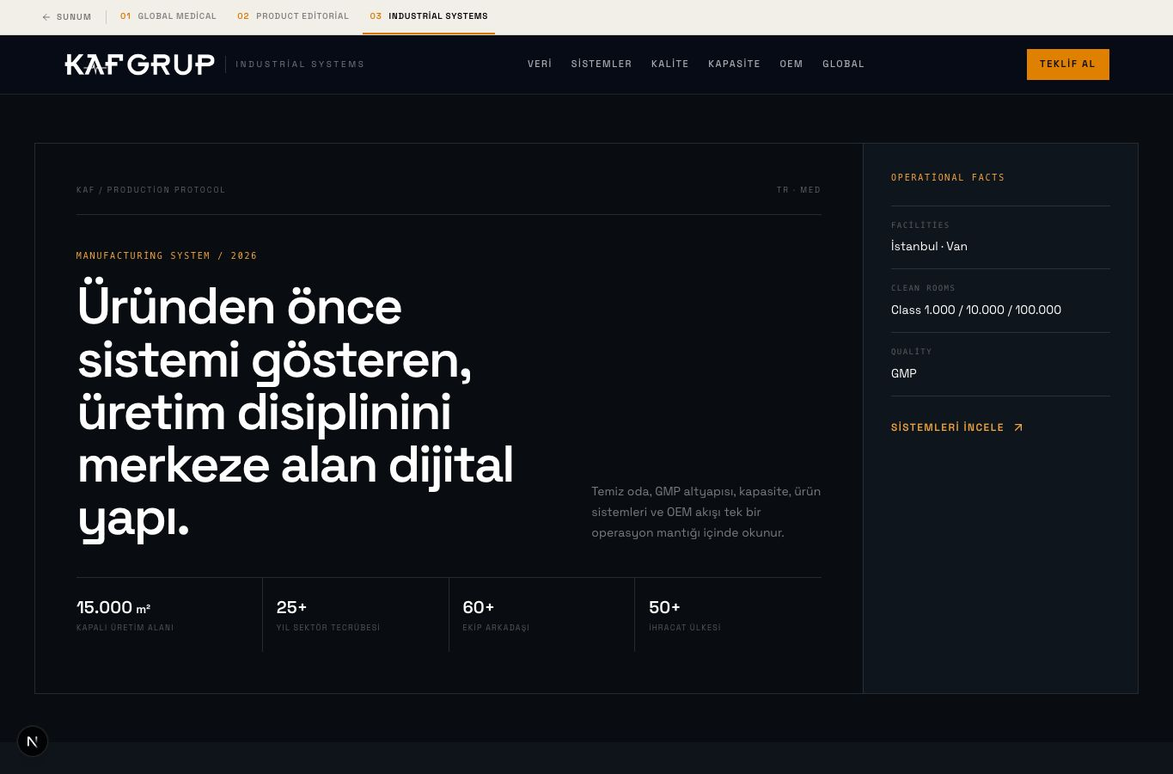
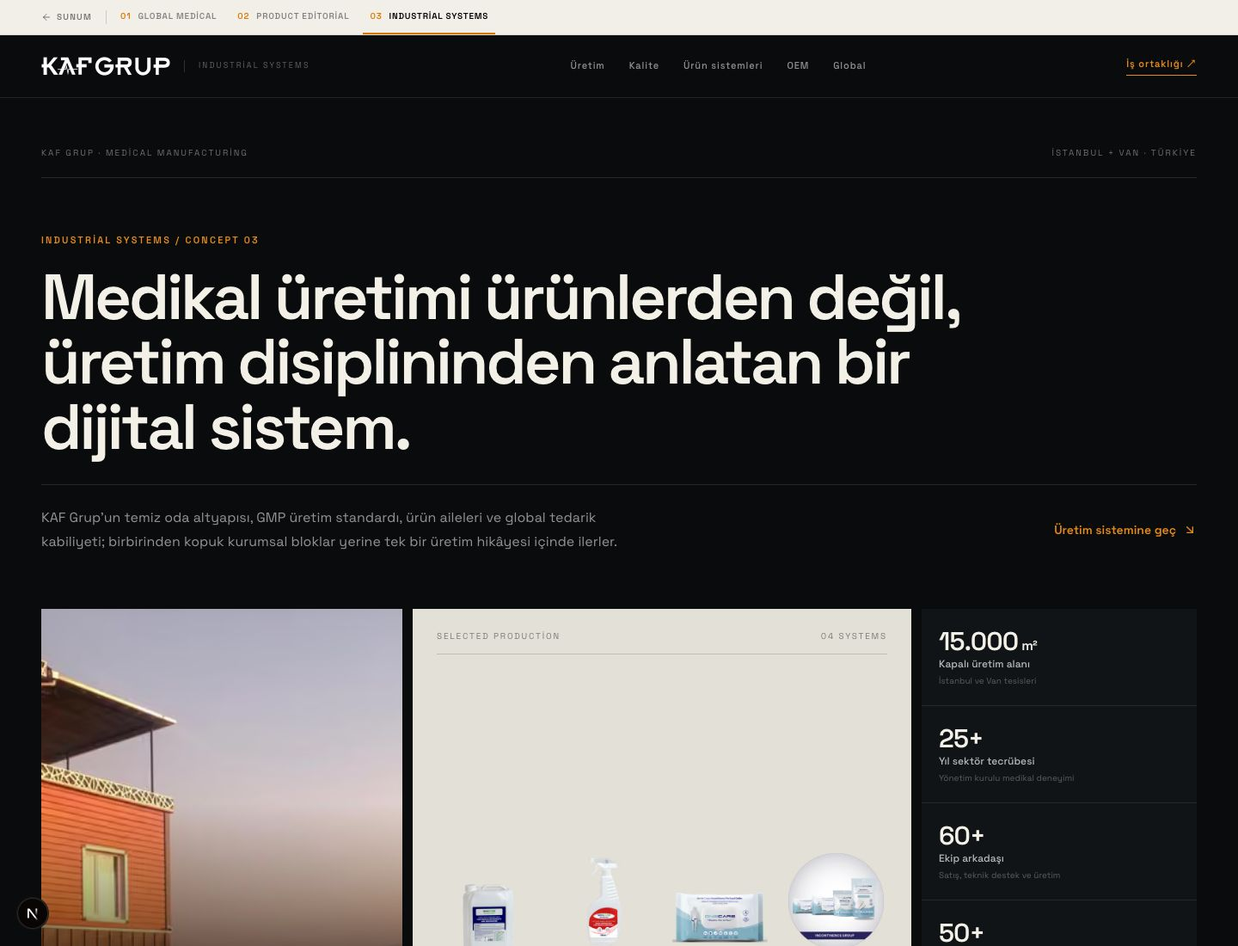
Refine industrial systems concept

diff --git a/src/components/taslak3/HomeSections.tsx b/src/components/taslak3/HomeSections.tsx
@@ -1,86 +1,181 @@
 import Image from "next/image";
-import { ArrowUpRight } from "lucide-react";
+import { ArrowDownRight, ArrowUpRight } from "lucide-react";
 import { company, metrics } from "@/data/company";
 import { products } from "@/data/products";
-import { oemSteps } from "@/data/content";
+import { exportMarkets, oemContent, oemSteps } from "@/data/content";
 
 const systems = [
-  { code: "SYS-01", title: "Instrument care", desc: "Tıbbi cihaz ve endoskop süreçleri", image: products[2].image },
-  { code: "SYS-02", title: "Surface control", desc: "Yüzey ve çevresel dezenfeksiyon", image: products[7].image },
-  { code: "SYS-03", title: "Patient care", desc: "Bariyer ve antibakteriyel bakım", image: products[12].image },
-  { code: "SYS-04", title: "Medical gels", desc: "Tanı ve uygulama destek ürünleri", image: products[0].image },
+  { code: "01", title: "Instrument care", desc: "Tıbbi cihaz ve endoskop dezenfeksiyonu", image: products[2].image },
+  { code: "02", title: "Surface control", desc: "Yüzey ve çevresel dezenfeksiyon", image: products[7].image },
+  { code: "03", title: "Patient care", desc: "Bariyer ve antibakteriyel bakım", image: products[12].image },
+  { code: "04", title: "Medical gels", desc: "Tanı ve uygulama destek ürünleri", image: products[0].image },
 ];
+
+const productionFlow = [
+  ["01", "Geliştirme", "Ürün ihtiyacı, formülasyon ve kullanım senaryosu"],
+  ["02", "Kontrollü üretim", "GMP altyapısı ve temiz oda standartları"],
+  ["03", "Kalite kontrol", "Üretim sürecinin kontrollü ve tekrarlanabilir ilerlemesi"],
+  ["04", "Global tedarik", "50+ ülkeye uzanan dağıtım ve iş ortaklığı ağı"],
+] as const;
 
 export function HomeSections() {
   return (
     <>
-      <section id="veri" className="bg-[#090d12] text-white">
-        <div className="mx-auto max-w-[1380px] px-5 py-10 sm:px-8 lg:px-10 lg:py-14">
-          <div className="grid overflow-hidden border border-white/12 lg:grid-cols-[1fr_320px]">
-            <div className="p-5 sm:p-8 lg:p-12">
-              <div className="flex items-center justify-between border-b border-white/12 pb-5 text-[9px] tracking-[0.22em] text-white/35 uppercase"><span>KAF / production protocol</span><span>TR · MED</span></div>
-              <div className="grid gap-8 py-10 lg:grid-cols-12 lg:items-end">
-                <div className="lg:col-span-8"><p className="font-mono text-[10px] tracking-[0.18em] text-[#f0a33e] uppercase">Manufacturing system / 2026</p><h1 className="mt-5 max-w-4xl text-4xl font-semibold leading-[1.02] tracking-[-0.04em] sm:text-5xl lg:text-6xl">Üründen önce sistemi gösteren, üretim disiplinini merkeze alan dijital yapı.</h1></div>
-                <p className="text-sm leading-6 text-white/45 lg:col-span-4">Temiz oda, GMP altyapısı, kapasite, ürün sistemleri ve OEM akışı tek bir operasyon mantığı içinde okunur.</p>
+      <section id="veri" className="overflow-hidden bg-[#0a0b0c] text-[#f3f0e8]">
+        <div className="mx-auto max-w-[1440px] px-5 pb-14 pt-10 sm:px-8 lg:px-12 lg:pb-20 lg:pt-14">
+          <div className="flex flex-wrap items-center justify-between gap-4 border-b border-white/12 pb-5 text-[10px] tracking-[0.2em] text-white/40 uppercase">
+            <span>KAF Grup · Medical Manufacturing</span>
+            <span>İstanbul + Van · Türkiye</span>
+          </div>
+
+          <div className="py-10 sm:py-14 lg:py-16">
+            <p className="text-[11px] font-semibold tracking-[0.2em] text-[#e58a1b] uppercase">Industrial systems / concept 03</p>
+            <h1 className="mt-5 max-w-[1080px] text-4xl font-semibold leading-[1.02] tracking-[-0.045em] sm:text-5xl lg:text-[4.65rem]">
+              Medikal üretimi ürünlerden değil, üretim disiplininden anlatan bir dijital sistem.
+            </h1>
+            <div className="mt-7 grid gap-6 border-t border-white/12 pt-6 md:grid-cols-12">
+              <p className="max-w-2xl text-base leading-7 text-white/55 md:col-span-7">
+                KAF Grup’un temiz oda altyapısı, GMP üretim standardı, ürün aileleri ve global tedarik kabiliyeti; birbirinden kopuk kurumsal bloklar yerine tek bir üretim hikâyesi içinde ilerler.
+              </p>
+              <a href="#sistemler" className="inline-flex items-center gap-2 text-sm font-semibold text-[#e58a1b] md:col-span-5 md:justify-self-end">
+                Üretim sistemine geç <ArrowDownRight className="size-4" />
+              </a>
+            </div>
+          </div>
+
+          <div className="grid gap-3 lg:grid-cols-[1.05fr_1.45fr_.8fr]">
+            <figure className="relative min-h-[250px] overflow-hidden bg-[#16191c] sm:min-h-[320px] lg:min-h-[390px]">
+              <Image src="/images/factory/van-fabrika.jpg" alt="KAF Grup Van üretim tesisi" fill priority sizes="(max-width:1024px) 100vw, 32vw" className="object-cover" />
+              <div className="absolute inset-0 bg-gradient-to-t from-black/65 via-transparent to-transparent" />
+              <figcaption className="absolute inset-x-0 bottom-0 flex items-end justify-between gap-4 p-5 text-[10px] tracking-[0.16em] text-white/65 uppercase">
+                <span>Gerçek üretim tesisi</span><span>Van · YYÜ Teknokent</span>
+              </figcaption>
+            </figure>
+
+            <div className="relative min-h-[300px] overflow-hidden bg-[#e3e0d8] text-[#111315] sm:min-h-[390px]">
+              <div className="absolute inset-x-5 top-5 flex items-center justify-between border-b border-black/15 pb-3 text-[10px] tracking-[0.18em] text-black/45 uppercase sm:inset-x-7 sm:top-6">
+                <span>Selected production</span><span>04 systems</span>
               </div>
-              <div className="grid grid-cols-2 border-t border-white/12 md:grid-cols-4">
-                {metrics.map((m) => <div key={m.id} className="border-b border-white/12 py-5 pr-4 md:border-b-0 md:border-r md:px-4 first:md:pl-0 last:md:border-r-0"><p className="text-xl font-semibold">{m.value}{m.unit ? <span className="ml-1 text-sm">{m.unit}</span> : null}</p><p className="mt-1 text-[9px] tracking-[0.14em] text-white/30 uppercase">{m.label}</p></div>)}
+              <div className="absolute inset-x-2 bottom-5 top-14 grid grid-cols-4 items-end gap-0 sm:inset-x-5 sm:bottom-6 sm:top-16">
+                {systems.map((item, index) => (
+                  <div key={item.code} className={`relative h-[78%] ${index % 2 ? "translate-y-[-7%]" : ""}`}>
+                    <Image src={item.image} alt={item.title} fill sizes="(max-width:1024px) 24vw, 14vw" className="object-contain object-bottom p-1 sm:p-3" />
+                  </div>
+                ))}
               </div>
             </div>
-            <aside className="border-t border-white/12 bg-[#0f151c] p-5 sm:p-8 lg:border-l lg:border-t-0">
-              <p className="font-mono text-[10px] tracking-[0.18em] text-[#f0a33e] uppercase">Operational facts</p>
-              <dl className="mt-6 divide-y divide-white/12 border-y border-white/12 text-sm">
-                <div className="py-4"><dt className="font-mono text-[9px] tracking-[0.16em] text-white/30 uppercase">Facilities</dt><dd className="mt-2">İstanbul · Van</dd></div>
-                <div className="py-4"><dt className="font-mono text-[9px] tracking-[0.16em] text-white/30 uppercase">Clean rooms</dt><dd className="mt-2">Class 1.000 / 10.000 / 100.000</dd></div>
-                <div className="py-4"><dt className="font-mono text-[9px] tracking-[0.16em] text-white/30 uppercase">Quality</dt><dd className="mt-2">GMP</dd></div>
-              </dl>
-              <a href="#sistemler" className="mt-7 inline-flex items-center gap-2 text-xs font-semibold tracking-[0.12em] text-[#f0a33e] uppercase">Sistemleri incele <ArrowUpRight className="size-4" /></a>
-            </aside>
+
+            <div className="grid grid-cols-2 gap-px bg-white/12 lg:grid-cols-1">
+              {metrics.map((m) => (
+                <div key={m.id} className="flex min-h-[118px] flex-col justify-between bg-[#111417] p-5 lg:min-h-0">
+                  <p className="text-2xl font-semibold tracking-[-0.03em] sm:text-3xl">{m.value}{m.unit ? <span className="ml-1 text-base">{m.unit}</span> : null}</p>
+                  <div><p className="text-xs font-medium text-white/70">{m.label}</p><p className="mt-1 text-[10px] leading-4 text-white/30">{m.detail}</p></div>
+                </div>
+              ))}
+            </div>
           </div>
         </div>
       </section>
 
-      <section id="sistemler" className="bg-[#0e141a] text-white">
-        <div className="mx-auto max-w-[1380px] px-5 py-16 sm:px-8 lg:px-10 lg:py-20">
-          <div className="mb-8 grid gap-5 lg:grid-cols-12"><div className="lg:col-span-3"><p className="font-mono text-[10px] tracking-[0.18em] text-[#f0a33e] uppercase">System portfolio</p></div><div className="lg:col-span-7"><h2 className="text-3xl font-semibold tracking-[-0.03em] sm:text-4xl">Ürün portföyü, klinik iş akışları üzerinden okunur.</h2></div></div>
-          <div className="border-y border-white/12">
-            {systems.map((item) => (
-              <article key={item.code} className="grid gap-4 border-b border-white/12 py-5 last:border-b-0 sm:grid-cols-[72px_1fr_140px] sm:items-center">
-                <span className="font-mono text-[10px] text-[#f0a33e]">{item.code}</span>
-                <div><h3 className="text-xl font-semibold">{item.title}</h3><p className="mt-1 text-sm text-white/40">{item.desc}</p></div>
-                <div className="relative h-24 bg-[#151d25]"><Image src={item.image} alt="" fill sizes="140px" className="object-contain p-3 grayscale" /></div>
-              </article>
+      <section id="sistemler" className="bg-[#111315] text-[#f3f0e8]">
+        <div className="mx-auto max-w-[1440px] px-5 py-16 sm:px-8 lg:px-12 lg:py-24">
+          <div className="grid gap-8 lg:grid-cols-12">
+            <div className="lg:col-span-4">
+              <p className="text-[10px] tracking-[0.2em] text-[#e58a1b] uppercase">01 · Production flow</p>
+              <h2 className="mt-4 max-w-md text-3xl font-semibold tracking-[-0.035em] sm:text-4xl">Ürünün arkasındaki sistem görünür hale geliyor.</h2>
+            </div>
+            <div className="lg:col-span-8">
+              <div className="border-t border-white/15">
+                {productionFlow.map(([n, t, d]) => (
+                  <article key={n} className="grid gap-3 border-b border-white/15 py-6 sm:grid-cols-[54px_180px_1fr] sm:items-baseline">
+                    <span className="text-xs text-[#e58a1b]">{n}</span>
+                    <h3 className="text-lg font-semibold">{t}</h3>
+                    <p className="max-w-xl text-sm leading-6 text-white/45">{d}</p>
+                  </article>
+                ))}
+              </div>
+            </div>
+          </div>
+        </div>
+      </section>
+
+      <section id="kalite" className="bg-[#dedbd3] text-[#121416]">
+        <div className="mx-auto max-w-[1440px] px-5 py-16 sm:px-8 lg:px-12 lg:py-24">
+          <div className="flex flex-col gap-5 border-b border-black/15 pb-8 lg:flex-row lg:items-end lg:justify-between">
+            <div><p className="text-[10px] tracking-[0.2em] text-[#9c5500] uppercase">02 · Quality architecture</p><h2 className="mt-4 max-w-3xl text-4xl font-semibold tracking-[-0.04em] sm:text-5xl">Kalite, ayrı bir bölüm değil; tüm yapının omurgası.</h2></div>
+            <p className="max-w-sm text-sm leading-6 text-black/55">GMP üretim altyapısı ile Class 1.000, 10.000 ve 100.000 temiz oda standartları sade ve ölçülü bir veri diliyle anlatılır.</p>
+          </div>
+          <div className="grid border-b border-black/15 md:grid-cols-3">
+            {[ ["GMP", "Belgeli üretim altyapısı"], ["1.000 / 10.000 / 100.000", "Temiz oda sınıfları"], ["15.000 m²", "İstanbul + Van toplam kapalı alan"] ].map(([v,l], i) => (
+              <div key={l} className={`py-8 md:px-7 ${i ? "md:border-l md:border-black/15" : ""}`}>
+                <p className="text-3xl font-semibold tracking-[-0.04em] lg:text-4xl">{v}</p><p className="mt-3 text-sm text-black/50">{l}</p>
+              </div>
             ))}
           </div>
         </div>
       </section>
 
-      <section id="kalite" className="bg-[#cfd4d1] text-[#10161b]">
-        <div className="mx-auto grid max-w-[1380px] gap-10 px-5 py-16 sm:px-8 lg:grid-cols-12 lg:px-10 lg:py-20">
-          <div className="lg:col-span-5"><p className="font-mono text-[10px] tracking-[0.18em] text-[#8a4b00] uppercase">Quality architecture</p><h2 className="mt-4 text-4xl font-semibold tracking-[-0.04em]">Kontrol, ürünün son adımı değil; üretim sisteminin parçası.</h2></div>
-          <div className="lg:col-span-7">
-            {[ ["01","GMP","Belgeli üretim altyapısı"], ["02","Clean room","Class 1.000 · 10.000 · 100.000"], ["03","Production discipline","Geliştirme, üretim ve kalite adımlarının kontrollü ilerlemesi"] ].map(([n,t,d]) => <div key={n} className="grid gap-3 border-t border-black/20 py-5 sm:grid-cols-[52px_180px_1fr]"><span className="font-mono text-xs text-[#8a4b00]">{n}</span><strong>{t}</strong><span className="text-sm leading-6 text-black/55">{d}</span></div>)}
+      <section id="kapasite" className="bg-[#0a0b0c] text-[#f3f0e8]">
+        <div className="mx-auto max-w-[1440px] px-5 py-16 sm:px-8 lg:px-12 lg:py-24">
+          <div className="grid gap-10 lg:grid-cols-12 lg:items-start">
+            <div className="lg:col-span-5 lg:sticky lg:top-28">
+              <p className="text-[10px] tracking-[0.2em] text-[#e58a1b] uppercase">03 · Clinical systems</p>
+              <h2 className="mt-4 text-4xl font-semibold tracking-[-0.04em]">Dört ürün sistemi. Tek üretim disiplini.</h2>
+              <p className="mt-5 max-w-md text-sm leading-6 text-white/45">Ürünler kutular içinde tekrar eden kartlar olarak değil; her biri ayrı bir klinik iş akışının parçası olarak sunulur.</p>
+            </div>
+            <div className="lg:col-span-7 lg:col-start-6">
+              {systems.map((item, index) => (
+                <article key={item.code} className="grid min-h-[240px] border-t border-white/15 py-7 sm:grid-cols-[72px_1fr_220px] sm:items-center">
+                  <span className="mb-5 text-xs text-[#e58a1b] sm:mb-0">{item.code}</span>
+                  <div className="pr-5"><h3 className="text-2xl font-semibold tracking-[-0.025em]">{item.title}</h3><p className="mt-2 text-sm text-white/45">{item.desc}</p></div>
+                  <div className={`relative mt-6 h-44 overflow-hidden sm:mt-0 ${index % 2 ? "bg-[#d8d5cd]" : "bg-[#171a1d]"}`}>
+                    <Image src={item.image} alt={item.title} fill sizes="220px" className="object-contain p-5" />
+                  </div>
+                </article>
+              ))}
+            </div>
           </div>
         </div>
       </section>
 
-      <section id="kapasite" className="bg-[#090d12] text-white">
-        <div className="mx-auto grid max-w-[1380px] gap-10 px-5 py-16 sm:px-8 lg:grid-cols-12 lg:px-10 lg:py-20">
-          <div className="lg:col-span-5">
-            <div className="relative aspect-[4/3] max-w-[620px] overflow-hidden border border-white/12 bg-[#111820]"><Image src="/images/factory/van-fabrika.jpg" alt="KAF Grup Van üretim tesisi" fill sizes="(max-width:1024px) 100vw, 42vw" className="object-cover" /></div>
-            <p className="mt-3 font-mono text-[9px] tracking-[0.16em] text-white/30 uppercase">Facility image / Van YYÜ Teknokent</p>
+      <section id="oem" className="bg-[#181b1e] text-white">
+        <div className="mx-auto max-w-[1440px] px-5 py-16 sm:px-8 lg:px-12 lg:py-24">
+          <div className="grid gap-10 lg:grid-cols-12">
+            <div className="lg:col-span-5">
+              <div className="relative aspect-[16/10] overflow-hidden bg-[#22272b]">
+                <Image src={oemContent.image} alt="KAF Grup OEM ve Private Label üretim" fill sizes="(max-width:1024px) 100vw, 40vw" className="object-cover" />
+                <div className="absolute inset-0 bg-black/15" />
+              </div>
+            </div>
+            <div className="lg:col-span-6 lg:col-start-7">
+              <p className="text-[10px] tracking-[0.2em] text-[#e58a1b] uppercase">04 · OEM / Private Label</p>
+              <h2 className="mt-4 text-4xl font-semibold tracking-[-0.04em]">Markaya özel üretim, sistemin doğal devamı.</h2>
+              <p className="mt-5 max-w-xl text-sm leading-6 text-white/45">{oemContent.summary}</p>
+              <ol className="mt-8 border-t border-white/15">
+                {oemSteps.map((step) => (
+                  <li key={step.step} className="grid gap-2 border-b border-white/15 py-5 sm:grid-cols-[48px_160px_1fr]">
+                    <span className="text-xs text-[#e58a1b]">{step.step}</span><strong className="text-sm">{step.title}</strong><span className="text-sm leading-6 text-white/40">{step.description}</span>
+                  </li>
+                ))}
+              </ol>
+            </div>
           </div>
-          <div className="lg:col-span-6 lg:col-start-7"><p className="font-mono text-[10px] tracking-[0.18em] text-[#f0a33e] uppercase">Capacity / facility</p><h2 className="mt-4 text-4xl font-semibold tracking-[-0.04em]">Fabrika görseli dekor değil, operasyon kanıtı.</h2><p className="mt-5 max-w-xl text-base leading-7 text-white/45">KAF Grup’un İstanbul ve Van’daki üretim yapısı, 15.000 m² kapalı alan ve temiz oda altyapısıyla birlikte gösterilir. Görsel yalnızca gerçek tesis bağlamında kullanılır.</p><div className="mt-8 grid grid-cols-2 gap-px bg-white/12">{[["15.000 m²","Kapalı alan"],["2","Üretim lokasyonu"],["60+","Ekip"],["50+","İhracat ülkesi"]].map(([v,l])=><div key={l} className="bg-[#090d12] p-5"><p className="text-2xl font-semibold">{v}</p><p className="mt-1 font-mono text-[9px] tracking-[0.14em] text-white/30 uppercase">{l}</p></div>)}</div></div>
         </div>
       </section>
 
-      <section id="oem" className="bg-[#141b22] text-white">
-        <div className="mx-auto max-w-[1380px] px-5 py-16 sm:px-8 lg:px-10 lg:py-20">
-          <div className="grid gap-8 lg:grid-cols-12"><div className="lg:col-span-4"><p className="font-mono text-[10px] tracking-[0.18em] text-[#f0a33e] uppercase">OEM production line</p><h2 className="mt-4 text-4xl font-semibold tracking-[-0.04em]">Brief’ten sevkiyata üretim protokolü.</h2></div><ol className="lg:col-span-8">{oemSteps.map((s,i)=><li key={s.step} className="grid gap-3 border-t border-white/12 py-5 sm:grid-cols-[50px_160px_1fr]"><span className="font-mono text-xs text-[#f0a33e]">0{i+1}</span><strong>{s.title}</strong><span className="text-sm leading-6 text-white/45">{s.description}</span></li>)}</ol></div>
+      <section id="global" className="bg-[#0a0b0c] text-white">
+        <div className="mx-auto max-w-[1440px] px-5 py-16 sm:px-8 lg:px-12 lg:py-20">
+          <div className="grid gap-9 lg:grid-cols-12">
+            <div className="lg:col-span-5"><p className="text-[10px] tracking-[0.2em] text-[#e58a1b] uppercase">05 · Global supply</p><h2 className="mt-4 text-4xl font-semibold tracking-[-0.04em]">Üretim Türkiye’de. İş ortaklığı farklı pazarlarda.</h2></div>
+            <div className="lg:col-span-7">
+              <div className="grid border-y border-white/15 sm:grid-cols-2">
+                {exportMarkets.map((market, index) => <div key={market.region} className={`py-5 sm:px-5 ${index % 2 ? "sm:border-l sm:border-white/15" : ""} ${index > 1 ? "border-t border-white/15" : ""}`}><p className="text-sm font-semibold">{market.region}</p><p className="mt-2 text-xs leading-5 text-white/40">{market.countries.join(" · ")}</p></div>)}
+              </div>
+              <div className="mt-8 flex flex-col gap-4 sm:flex-row sm:items-center sm:justify-between"><p className="text-sm text-white/45">OEM, distribütörlük veya kurumsal tedarik için</p><a href={`mailto:${company.contact.email}`} className="inline-flex items-center gap-2 text-sm font-semibold text-[#e58a1b]">{company.contact.email}<ArrowUpRight className="size-4" /></a></div>
+            </div>
+          </div>
         </div>
       </section>
-
-      <section id="global" className="bg-[#f0a33e] text-[#10161b]"><div className="mx-auto flex max-w-[1380px] flex-col gap-5 px-5 py-12 sm:px-8 lg:flex-row lg:items-center lg:justify-between lg:px-10"><div><p className="font-mono text-[10px] tracking-[0.18em] uppercase">Business development / global supply</p><h2 className="mt-2 text-2xl font-semibold">OEM, distribütörlük veya kurumsal tedarik.</h2></div><a href={`mailto:${company.contact.email}`} className="inline-flex items-center gap-2 text-sm font-semibold">{company.contact.email}<ArrowUpRight className="size-4" /></a></div></section>
     </>
   );
 }

diff --git a/src/components/taslak3/SiteHeader.tsx b/src/components/taslak3/SiteHeader.tsx
@@ -8,10 +8,9 @@ import { company } from "@/data/company";
 import { cn } from "@/lib/cn";
 
 const nav = [
-  { href: "#veri", label: "Veri" },
-  { href: "#sistemler", label: "Sistemler" },
+  { href: "#sistemler", label: "Üretim" },
   { href: "#kalite", label: "Kalite" },
-  { href: "#kapasite", label: "Kapasite" },
+  { href: "#kapasite", label: "Ürün sistemleri" },
   { href: "#oem", label: "OEM" },
   { href: "#global", label: "Global" },
 ] as const;
@@ -26,105 +25,51 @@ export function SiteHeader() {
       if (e.key === "Escape") setOpen(false);
     };
     document.addEventListener("keydown", onKey);
-    const prev = document.body.style.overflow;
+    const previous = document.body.style.overflow;
     document.body.style.overflow = "hidden";
     return () => {
       document.removeEventListener("keydown", onKey);
-      document.body.style.overflow = prev;
+      document.body.style.overflow = previous;
     };
   }, [open]);
 
   return (
-    <header className="sticky top-0 z-50 border-b border-white/10 bg-[#070B16]/90 backdrop-blur-md">
-      <div className="mx-auto flex h-16 w-full max-w-7xl items-center justify-between gap-4 px-4 sm:h-[4.25rem] sm:px-6 lg:px-8">
-        <Link
-          href="/taslak-3"
-          className="relative z-[51] flex shrink-0 items-center gap-3"
-          onClick={() => setOpen(false)}
-        >
-          <Image
-            src={company.logo}
-            alt="KAF Grup"
-            width={148}
-            height={28}
-            className="h-6 w-auto brightness-0 invert sm:h-7"
-            priority
-            unoptimized
-          />
-          <span className="hidden h-5 w-px bg-white/15 lg:block" aria-hidden />
-          <span className="hidden text-[10px] tracking-[0.28em] text-white/45 uppercase lg:block">
-            Industrial Systems
-          </span>
+    <header className="sticky top-0 z-50 border-b border-white/10 bg-[#0a0b0c]/96 text-white backdrop-blur-md">
+      <div className="mx-auto flex h-16 max-w-[1440px] items-center justify-between gap-5 px-5 sm:px-8 lg:h-[4.5rem] lg:px-12">
+        <Link href="/taslak-3" className="relative z-[51] flex items-center gap-4" onClick={() => setOpen(false)}>
+          <Image src={company.logo} alt="KAF Grup" width={150} height={28} className="h-6 w-auto brightness-0 invert" priority unoptimized />
+          <span className="hidden border-l border-white/15 pl-4 text-[9px] tracking-[0.24em] text-white/35 uppercase lg:block">Industrial Systems</span>
         </Link>
 
-        <nav
-          className="hidden items-center gap-0.5 xl:flex"
-          aria-label="Ana navigasyon"
-        >
+        <nav aria-label="Ana navigasyon" className="hidden items-center gap-7 lg:flex">
           {nav.map((item) => (
-            <a
-              key={item.href}
-              href={item.href}
-              className="px-2.5 py-2 text-[11px] font-medium tracking-[0.14em] text-white/65 uppercase transition hover:text-[#E08000]"
-            >
+            <a key={item.href} href={item.href} className="text-[11px] font-medium tracking-[0.08em] text-white/55 transition hover:text-white">
               {item.label}
             </a>
           ))}
         </nav>
 
-        <div className="flex items-center gap-2">
-          <a
-            href="#global"
-            className="hidden border border-[#E08000] bg-[#E08000] px-3.5 py-2 text-[11px] font-semibold tracking-[0.16em] text-[#070B16] uppercase transition hover:bg-[#c66d00] hover:border-[#c66d00] sm:inline-flex"
-          >
-            Teklif al
-          </a>
-          <button
-            type="button"
-            className="inline-flex size-10 items-center justify-center border border-white/15 text-white xl:hidden"
-            aria-expanded={open}
-            aria-controls={panelId}
-            aria-label={open ? "Menüyü kapat" : "Menüyü aç"}
-            onClick={() => setOpen((v) => !v)}
-          >
-            {open ? <X className="size-5" aria-hidden /> : <Menu className="size-5" aria-hidden />}
+        <div className="flex items-center gap-3">
+          <a href="#global" className="hidden border-b border-[#e58a1b] pb-1 text-[11px] font-semibold tracking-[0.08em] text-[#e58a1b] sm:inline-flex">İş ortaklığı ↗</a>
+          <button type="button" aria-expanded={open} aria-controls={panelId} aria-label={open ? "Menüyü kapat" : "Menüyü aç"} onClick={() => setOpen((v) => !v)} className="relative z-[51] inline-flex size-10 items-center justify-center border border-white/15 lg:hidden">
+            {open ? <X className="size-4" /> : <Menu className="size-4" />}
           </button>
         </div>
       </div>
 
-      <div
-        id={panelId}
-        className={cn(
-          "fixed inset-0 z-40 bg-[#070B16]/96 xl:hidden",
-          open ? "block" : "hidden",
-        )}
-        role="dialog"
-        aria-modal="true"
-        aria-label="Mobil menü"
-      >
-        <div className="flex h-full flex-col px-6 pb-10 pt-24">
-          <nav className="flex flex-col gap-1" aria-label="Mobil navigasyon">
-            {nav.map((item) => (
-              <a
-                key={item.href}
-                href={item.href}
-                className="border-b border-white/10 py-4 text-sm font-medium tracking-[0.18em] text-white/85 uppercase transition hover:text-[#E08000]"
-                onClick={() => setOpen(false)}
-              >
-                {item.label}
+      <div id={panelId} className={cn("fixed inset-0 z-40 bg-[#0a0b0c] lg:hidden", open ? "block" : "hidden")} role="dialog" aria-modal="true" aria-label="Mobil menü">
+        <div className="flex h-full flex-col px-5 pb-8 pt-24 sm:px-8">
+          <p className="text-[10px] tracking-[0.2em] text-[#e58a1b] uppercase">Industrial navigation</p>
+          <nav className="mt-6 border-t border-white/12" aria-label="Mobil navigasyon">
+            {nav.map((item, index) => (
+              <a key={item.href} href={item.href} className="flex items-center justify-between border-b border-white/12 py-5 text-lg font-medium text-white/85" onClick={() => setOpen(false)}>
+                <span>{item.label}</span><span className="text-xs text-white/25">0{index + 1}</span>
               </a>
             ))}
           </nav>
-          <a
-            href="#global"
-            className="mt-8 inline-flex w-full items-center justify-center border border-[#E08000] bg-[#E08000] px-4 py-3.5 text-xs font-semibold tracking-[0.2em] text-[#070B16] uppercase"
-            onClick={() => setOpen(false)}
-          >
-            Teklif al
+          <a href={`mailto:${company.contact.email}`} className="mt-auto flex items-center justify-between border-t border-white/12 pt-5 text-sm text-[#e58a1b]" onClick={() => setOpen(false)}>
+            <span>{company.contact.email}</span><span>↗</span>
           </a>
-          <p className="mt-auto text-xs tracking-wide text-white/40">
-            {company.contact.phones[0]} · {company.hq}
-          </p>
         </div>
       </div>
     </header>
